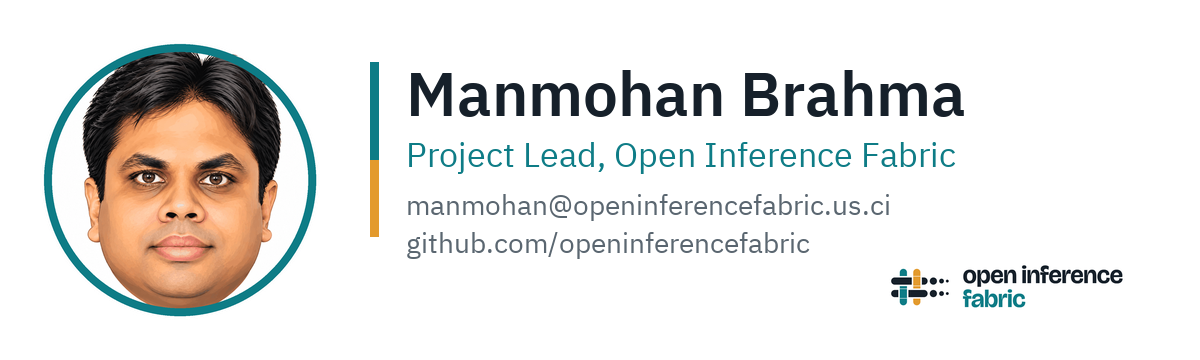
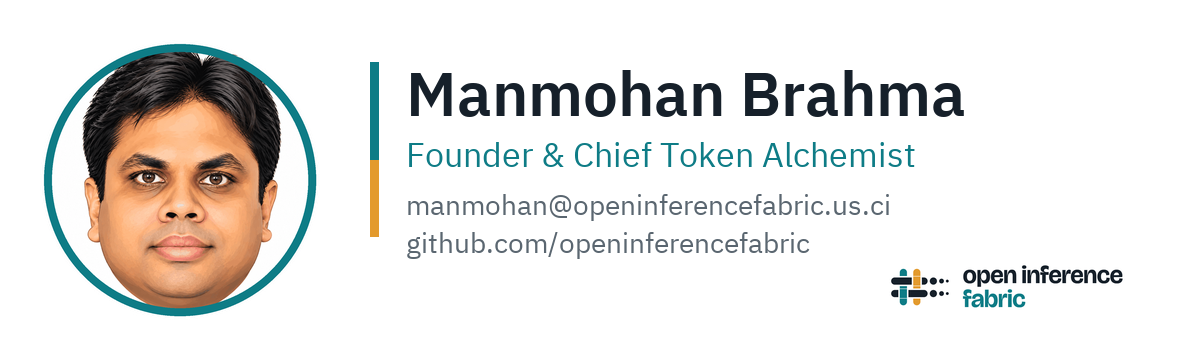
brand: Manmohan Brahma's title is Founder & Chief Token Alchemist (signature regenerated)

Changed region(s): [[0.3392, 0.3972, 0.8017, 0.4889]]

diff --git a/brand/team/make_signature.py b/brand/team/make_signature.py
@@ -8,7 +8,7 @@ From a square portrait on a white background, writes into the output directory:
 Needs Pillow and network access once for IBM Plex Sans (SIL OFL). Without Python on the host:
   docker run --rm -v "$PWD":/w -w /w python:3.12-slim sh -c "pip -q install pillow && python brand/team/make_signature.py \\
     --portrait brand/team/manmohan-brahma-portrait-512.png --name 'Manmohan Brahma' \\
-    --role 'Project Lead, Open Inference Fabric' --email manmohan@openinferencefabric.us.ci --out brand/team"
+    --role 'Founder & Chief Token Alchemist' --email manmohan@openinferencefabric.us.ci --out brand/team"
 """
 import argparse
 import os

diff --git a/brand/README.md b/brand/README.md
@@ -41,6 +41,6 @@ by `team/make_signature.py` from a square portrait on white (its docstring has t
 | `team/oif-profile-<name>-512.png` | Round portrait with the OIF mark as a badge: mail account, GitHub, Slack, LinkedIn |
 | `team/<name>-portrait-512.png` | The source portrait |
 
-Current: Manmohan Brahma, Project Lead (`manmohan@openinferencefabric.us.ci`). Rerun the script when a role or address
+Current: Manmohan Brahma, Founder & Chief Token Alchemist (`manmohan@openinferencefabric.us.ci`). Rerun the script when a role or address
 changes rather than editing the images. Portraits are personal: a person's photo is used only for that person, with
 their consent, and the Apache-2.0 licence of the repository does not grant rights to use anyone's likeness.
